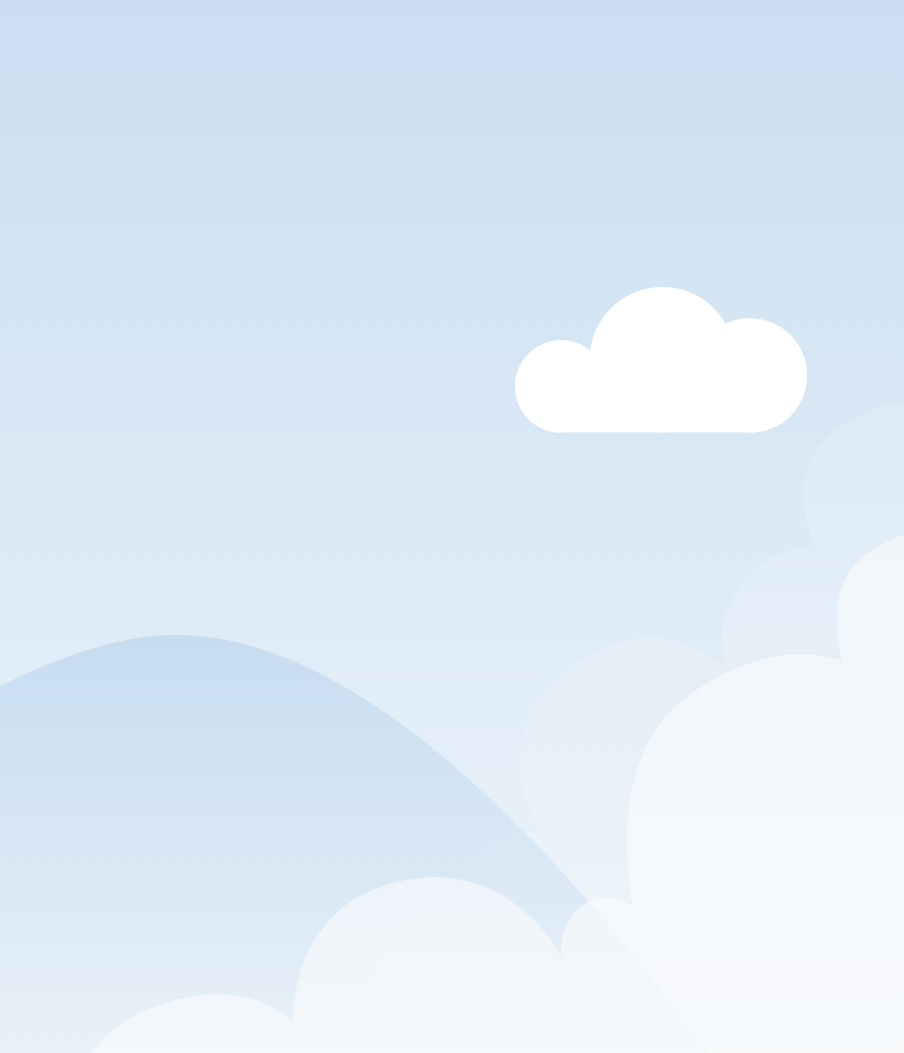
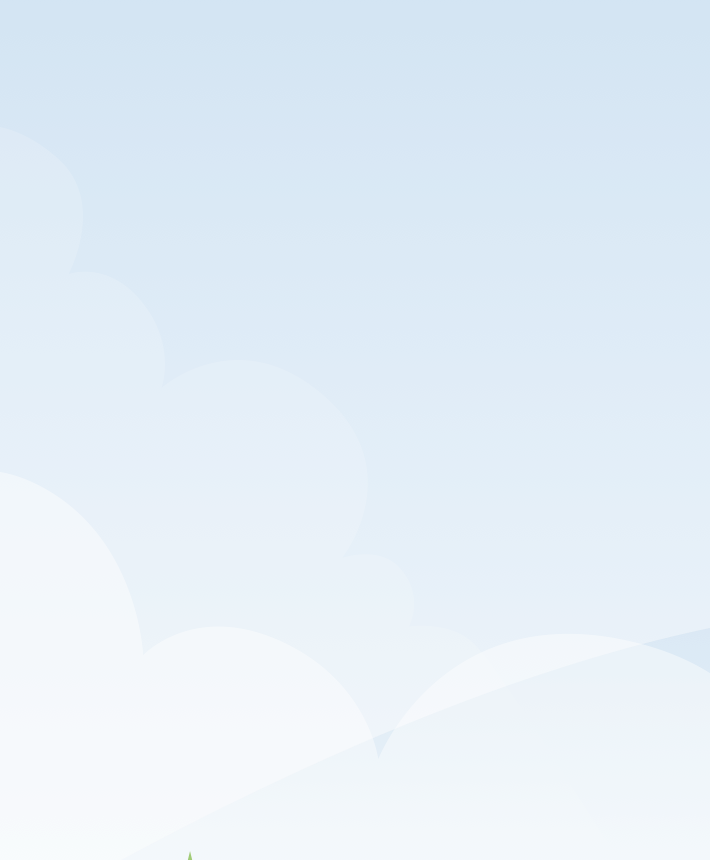
cloud background added to score card

diff --git a/style/style.css b/style/style.css
@@ -6,9 +6,6 @@ body {
     -o-background-size: cover;
     background-size: cover;
 }
-/*.container {*/
-    /*background-image: url('./../assets/rolling-hills-backround.png');*/
-/*}*/
 
 .c-sort-tabs {
     margin: 20px;
@@ -85,14 +82,18 @@ body {
     height: 60px;
 }
 
-.c-score-card {
-    background-color: rgb(244, 237, 227);
-    padding: 20px;
-    border-radius: 0.25rem;
+/*.c-score-card {*/
+    /*background-color: rgb(244, 237, 227);*/
+    /*padding: 20px;*/
+    /*border-radius: 0.25rem;*/
+/*}*/
+
+.c-score-card{
+    padding-left: 15%;
 }
 
 .c-app .c-nav-bar{
-    background-color:  rgb(244, 237, 227);
+    background-color:  transparent;
 }
 .c-app .c-nav-bar a {
     font-family: 'Almendra Display', cursive;
@@ -102,4 +103,32 @@ body {
 
 .container  .c-creature-container {
     margin-left: 10%;
+}
+
+.c-score-cloud {
+    width: 350px; height: 120px;
+    background: #f2f9fe;
+    border-radius: 100px;
+    position: relative;
+}
+
+.c-score-cloud:after, .c-score-cloud:before {
+    content: '';
+    position: absolute;
+    background: #f2f9fe;
+    z-index: -1
+}
+
+.c-score-cloud:after {
+    width: 100px; height: 100px;
+    top: -50px; left: 50px;
+    border-radius: 100px;
+}
+
+.c-score-cloud:before {
+    width: 140px;
+    height: 140px;
+    top: -50px;
+    right: 70px;
+    border-radius: 200px;
 }

diff --git a/src/components/game/view/ScoreCard.js b/src/components/game/view/ScoreCard.js
@@ -13,10 +13,12 @@ export default class ScoreCard extends Component {
 
     render(){
         return (
-            <div className="c-score-card">
-                <p>Total Age : {this.tally(this.props.creatures, 'age')}</p>
-                <p>Total Mana : {this.tally(this.props.creatures, 'mana')}</p>
-                <p>Number of Cages available: {this.props.creatures.length} / 10</p>
+            <div className="c-score-cloud">
+                <div className="c-score-card">
+                    <p>Total Age : {this.tally(this.props.creatures, 'age')}</p>
+                    <p>Total Mana : {this.tally(this.props.creatures, 'mana')}</p>
+                    <p>Number of Cages available: {this.props.creatures.length} / 10</p>
+                </div>
             </div>
         )
     }
